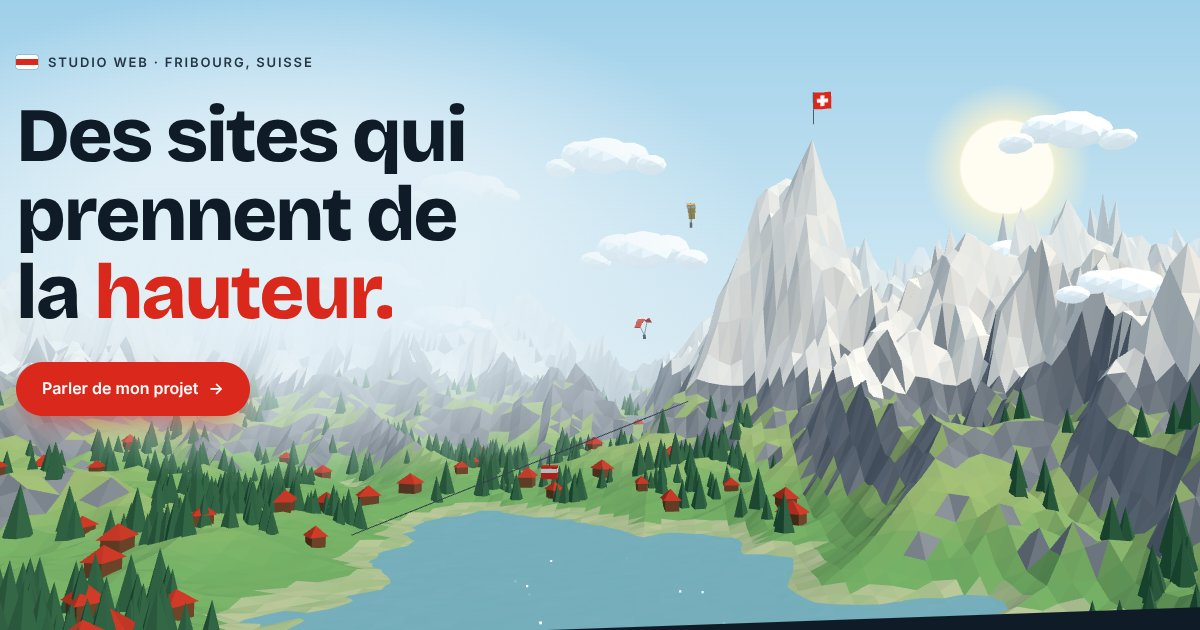
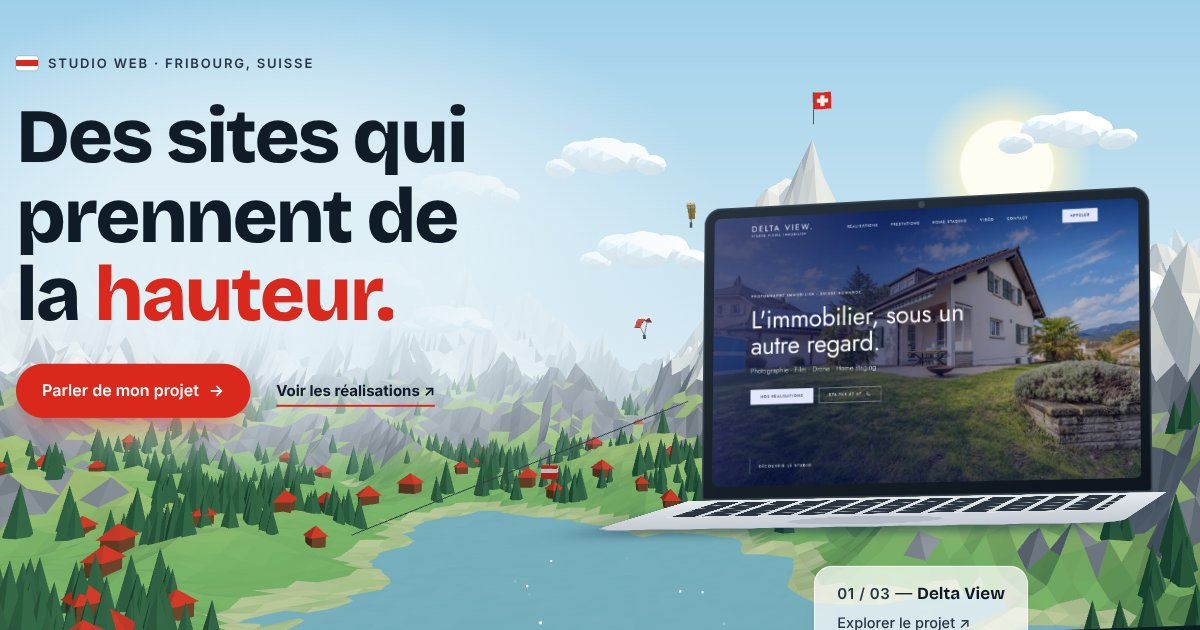
Accueil : la première réalisation dans un ordinateur, dès l'arrivée
- Ordinateur 3D flottant avec Delta View et étiquette « 01 / 03 »
- Phrase d'accroche et lien « Voir les réalisations »
- Les pastilles de construction laissent la place à l'ordinateur

Claude-Session: https://claude.ai/code/session_01Rg7M4XBpbTYtEwgsAnsV6M

diff --git a/assets/relief.css b/assets/relief.css
@@ -307,6 +307,22 @@ body.ascent{background:#DCEBF3}
 .marker span{font-size:clamp(64px,12vw,190px)}
 .hero-title{margin-bottom:6px}
 
+/* ---------- accueil : la première réalisation dans un ordinateur ---------- */
+.hero-in{display:grid;grid-template-columns:minmax(0,1.08fr) minmax(0,.92fr);gap:24px;align-items:start}
+.hero-sub{margin:0}
+.hero-cta{align-items:center;gap:14px 26px}
+.hero-device{margin-top:clamp(120px,24vh,250px);opacity:calc(1 - (var(--p) - .5) * 3.2);transform:translateY(calc((var(--p) - .5) * -120px))}
+.hero-float{display:grid;justify-items:center;gap:6px;animation:deviceIn 1.2s .8s var(--ease) both}
+.hero-device .laptop{--tilt:-15deg;width:100%;animation:float 7s ease-in-out infinite}
+.hero-tag{display:grid;gap:3px;padding:13px 22px 14px;border-radius:18px;background:rgba(255,255,255,.72);border:1px solid rgba(255,255,255,.75);backdrop-filter:blur(14px);-webkit-backdrop-filter:blur(14px);box-shadow:0 18px 34px -22px rgba(15,27,38,.5);font-size:17px;color:var(--ink);transition:transform .35s var(--ease),background .35s}
+.hero-tag:hover{transform:translateY(-3px);background:rgba(255,255,255,.92)}
+.hero-tag small{font-size:15px;font-weight:600;color:var(--ink-2);letter-spacing:.04em}
+.hero-tag b{font-family:var(--display);font-weight:700}
+.hero-tag u{font-size:14.5px;font-weight:500;text-underline-offset:4px;color:var(--ink-2)}
+@keyframes float{0%,100%{transform:translateY(0)}50%{transform:translateY(-12px)}}
+@keyframes deviceIn{from{opacity:0;transform:translateY(60px) scale(.94)}to{opacity:1;transform:none}}
+@media (prefers-reduced-motion:reduce){.hero-float,.hero-device .laptop{animation:none}}
+
 /* ---------- finitions ---------- */
 .hero-title .w{display:inline-block;overflow:hidden;vertical-align:bottom;padding-bottom:.12em;margin-bottom:-.12em}
 .hero-title .w>span{display:inline-block;animation:wordUp .9s var(--ease) both}
@@ -335,6 +351,11 @@ body.ascent{background:#DCEBF3}
   .burger{display:block}
   .nav-in{height:58px;gap:12px}
   .hero{padding-top:104px;min-height:max(100svh,780px)}
+  .hero{padding-bottom:86px}
+  .hero-in{grid-template-columns:1fr;gap:0}
+  .hero-device{margin-top:34px}
+  .hero-device .laptop{--tilt:-12deg;padding:0 6% 13%}
+  .hero-tag{font-size:16px;padding:11px 18px 12px}
   .hero-copy::before{inset:-40px -30px -40px -30px}
   .hero-title{font-size:clamp(40px,11.5vw,56px);margin:14px 0 14px}
   .hero-cta{margin-top:22px}

diff --git a/index.html b/index.html
@@ -56,13 +56,28 @@
       <div class="hero-copy">
         <p class="eyebrow"><span class="blaze" aria-hidden="true"></span>Studio web · Fribourg, Suisse</p>
         <h1 class="hero-title" data-words>Des sites qui prennent de la <em>hauteur.</em></h1>
+        <p class="hero-sub">Sites web sur mesure pour indépendants et PME de Suisse romande.</p>
         <div class="hero-cta">
           <a class="btn btn-red" href="#contact">Parler de mon projet <span aria-hidden="true">→</span></a>
+          <a class="link-arrow" href="#sommets">Voir les réalisations ↗</a>
         </div>
-        <!-- les étapes s'allument pendant que la montagne se construit -->
-        <ol class="build" data-build aria-label="Comment on construit un site">
-          <li><b>01</b> Maquette</li><li><b>02</b> Volumes</li><li><b>03</b> Design</li><li><b>04</b> En ligne</li>
-        </ol>
+      </div>
+      <!-- la première réalisation, visible dès l'arrivée -->
+      <div class="hero-device">
+        <div class="hero-float">
+          <a class="laptop" href="https://delta-view.ch" target="_blank" rel="noopener" aria-label="Visiter delta-view.ch">
+            <span class="laptop-3d">
+              <span class="laptop-lid"><span class="laptop-screen">
+                <img src="assets/work/delta-view.webp" alt="Page d’accueil du site delta-view.ch, réalisé par Relief" width="1280" height="800" decoding="async" fetchpriority="high">
+              </span></span>
+              <span class="laptop-base" aria-hidden="true"></span>
+            </span>
+          </a>
+          <a class="hero-tag" href="https://delta-view.ch" target="_blank" rel="noopener">
+            <span><small>01 / 03</small> — <b>Delta View</b></span>
+            <u>Explorer le projet ↗</u>
+          </a>
+        </div>
       </div>
     </div>
     <a class="scroll-cue" href="#sommets"><span class="mouse" aria-hidden="true"><i></i></span>Défilez pour grimper</a>
